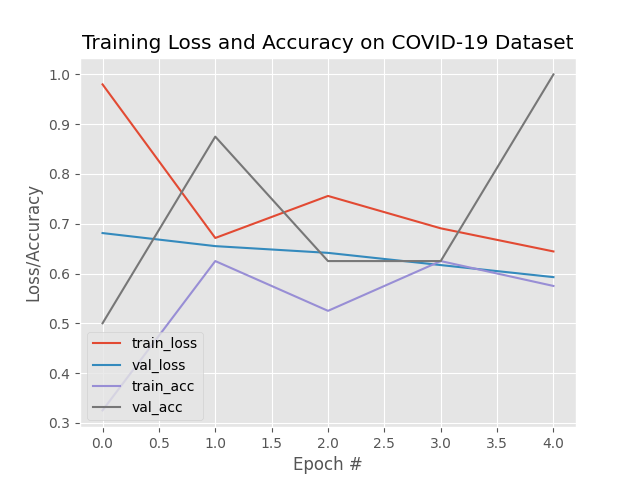
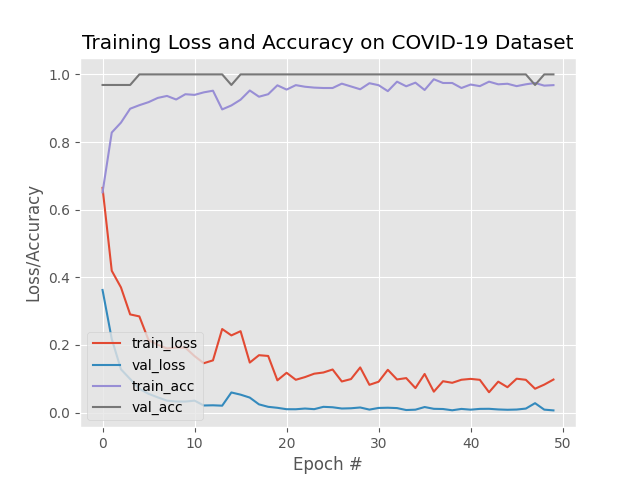
adjusted hyper params to compensate low input size

diff --git a/covid19_diagnosis/train_horovod.py b/covid19_diagnosis/train_horovod.py
@@ -55,10 +55,10 @@ def plot_training(history, N, plotPath):
 def data_augmentation(trainX,testX,trainY,testY,batch_size):
 	# initialize the training data augmentation
 	trainGen = ImageDataGenerator(
-		rotation_range=30,
-		zoom_range=0.15,
-		width_shift_range=0.2,
-		height_shift_range=0.2,
+		rotation_range=15,
+		zoom_range=0.2,
+		width_shift_range=0.1,
+		height_shift_range=0.1,
 		shear_range=0.15,
 		horizontal_flip=True,
 		fill_mode="nearest"
@@ -150,6 +150,7 @@ if gpus:
 
 
 # initialize the initial LR, number of epochs and pool batch size
+STEP_SIZE = 120
 INIT_LR = args['initial_lr']
 EPOCHS = args['epochs']
 BATCH_SIZE = args['batch_size']
@@ -186,12 +187,12 @@ lb = LabelBinarizer()
 labels = lb.fit_transform(labels)
 labels = to_categorical(labels)
 
-# train/test split (80:20)
+# train/test split (90:10)
 (trainX, testX, trainY, testY) = train_test_split(data, 
 												  labels,
-												  test_size=0.20, 
+												  test_size=0.10, 
 												  stratify=labels, 
-												  random_state=123)
+												  random_state=42)
 
 # data augmentation
 trainAug, valAug = data_augmentation(trainX,testX,trainY,testY,BATCH_SIZE)
@@ -208,9 +209,10 @@ verbose = 1 if hvd.rank() == 0 else 0
 t0 = time.time()
 history = model.fit(
 			x=trainAug,
-			steps_per_epoch = len(trainX) // BATCH_SIZE // hvd.size(),
+			# steps_per_epoch = len(trainX) // BATCH_SIZE // hvd.size(),
+			steps_per_epoch = STEP_SIZE,
 			validation_data=(valAug),
-			validation_steps=len(testX) // BATCH_SIZE // hvd.size(),
+			# validation_steps=len(testX) // BATCH_SIZE // hvd.size(),
 			epochs = EPOCHS,
 			verbose = verbose,
 			callbacks = callbacks)

diff --git a/covid19_diagnosis/train_perseus.py b/covid19_diagnosis/train_perseus.py
@@ -55,10 +55,10 @@ def plot_training(history, N, plotPath):
 def data_augmentation(trainX,testX,trainY,testY,batch_size):
 	# initialize the training data augmentation
 	trainGen = ImageDataGenerator(
-		rotation_range=30,
-		zoom_range=0.15,
-		width_shift_range=0.2,
-		height_shift_range=0.2,
+		rotation_range=15,
+		zoom_range=0.2,
+		width_shift_range=0.1,
+		height_shift_range=0.1,
 		shear_range=0.15,
 		horizontal_flip=True,
 		fill_mode="nearest"
@@ -150,6 +150,7 @@ if gpus:
 
 
 # initialize the initial LR, number of epochs and pool batch size
+STEP_SIZE = 120
 INIT_LR = args['initial_lr']
 EPOCHS = args['epochs']
 BATCH_SIZE = args['batch_size']
@@ -186,12 +187,12 @@ lb = LabelBinarizer()
 labels = lb.fit_transform(labels)
 labels = to_categorical(labels)
 
-# train/test split (80:20)
+# train/test split (90:10)
 (trainX, testX, trainY, testY) = train_test_split(data, 
 												  labels,
-												  test_size=0.20, 
+												  test_size=0.10, 
 												  stratify=labels, 
-												  random_state=123)
+												  random_state=42)
 
 # data augmentation
 trainAug, valAug = data_augmentation(trainX,testX,trainY,testY,BATCH_SIZE)
@@ -208,9 +209,10 @@ verbose = 1 if hvd.rank() == 0 else 0
 t0 = time.time()
 history = model.fit(
 			x=trainAug,
-			steps_per_epoch = len(trainX) // BATCH_SIZE // hvd.size(),
+			# steps_per_epoch = len(trainX) // BATCH_SIZE // hvd.size(),
+			steps_per_epoch = STEP_SIZE,
 			validation_data=(valAug),
-			validation_steps=len(testX) // BATCH_SIZE // hvd.size(),
+			# validation_steps=len(testX) // BATCH_SIZE // hvd.size(),
 			epochs = EPOCHS,
 			verbose = verbose,
 			callbacks = callbacks)

diff --git a/covid19_diagnosis/train.py b/covid19_diagnosis/train.py
@@ -54,10 +54,10 @@ def plot_training(history, N, plotPath):
 def data_augmentation(trainX,testX,trainY,testY,batch_size):
 	# initialize the training data augmentation
 	trainGen = ImageDataGenerator(
-		rotation_range=30,
-		zoom_range=0.15,
-		width_shift_range=0.2,
-		height_shift_range=0.2,
+		rotation_range=15,
+		zoom_range=0.2,
+		width_shift_range=0.1,
+		height_shift_range=0.1,
 		shear_range=0.15,
 		horizontal_flip=True,
 		fill_mode="nearest"

diff --git a/covid19_diagnosis/predict.py b/covid19_diagnosis/predict.py
@@ -37,6 +37,8 @@ preds = model.predict(np.expand_dims(image, axis=0))[0]
 i = np.argmax(preds)
 label = CLASSES[i]
 
+print('raw preds', preds)
+
 # draw the prediction on the output image
 text = "{}: {:.2f}%".format(label, preds[i] * 100)
 cv2.putText(output, text, (3, 20), cv2.FONT_HERSHEY_SIMPLEX, 0.7, (0, 255, 0), 2)
